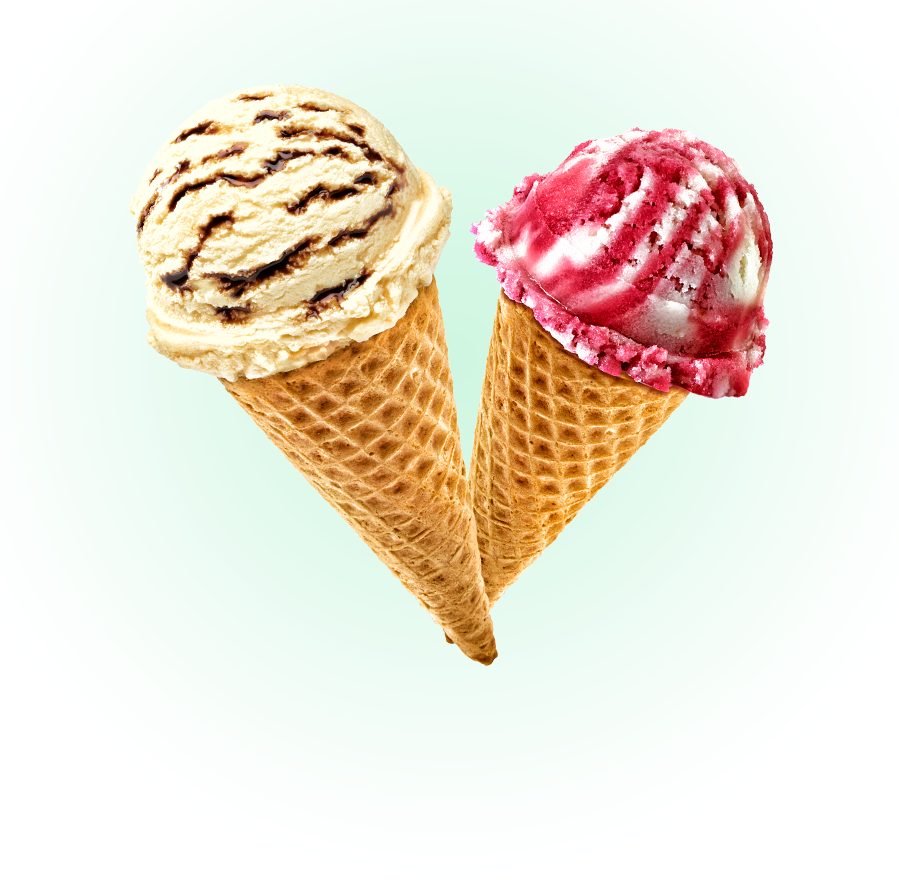
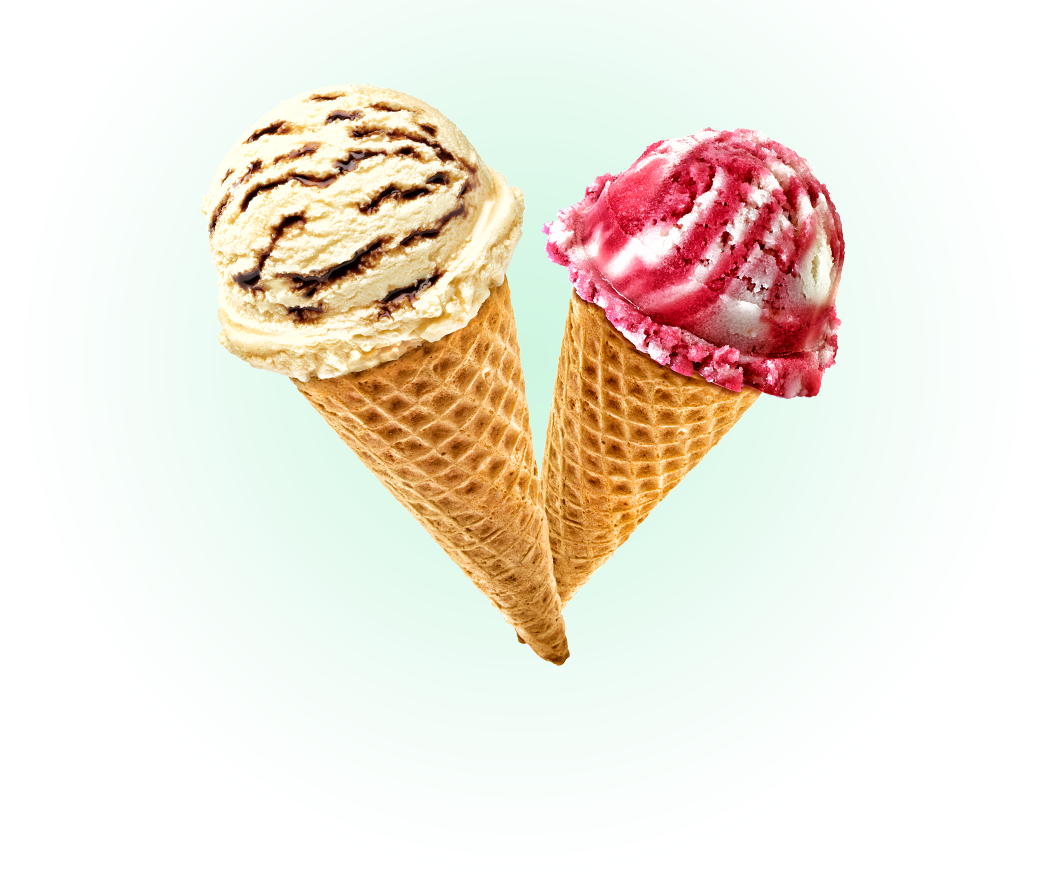
Слайды сделаны

Changed region(s): [[0.1246, 0.0919, 0.8721, 0.7662]]

diff --git a/css/style.css b/css/style.css
@@ -9,9 +9,11 @@ body {
     line-height: 18px;
     color: #ffffff;
     /* Фон */
-    background: #849d8f;
+    background-color: #849d8f;
 }
-
+body > input[type="radio"] {
+  display: none;
+}
 /*---------------------------------- Шапка -----------------------------------*/
 .main-header {
     /* Блочная модель */
@@ -573,9 +575,110 @@ body {
     width: 1146px;
     margin: 0 auto;
 }
+.site-wrapper {
+    background :#849d8f url("../img/slide-1-pic.png") no-repeat top center;
+    transition: background-image 0.5s ease, background-color 0.5s ease;
+}
+.site-wrapper::before,
+.site-wrapper::after {
+    content: "";
+    visibility: hidden;
+}
+.site-wrapper::before {
+    background-image: url("../img/slide-2-pic.png");
+}
+.site-wrapper::after {
+    background-image: url("../img/slide-3-pic.png");
+}
+.slider {
+    position: relative;
+    padding-top: 270px;
+    text-align: center;
+    color: #ffffff;
+}
+.slide {
+    display: none;
+}
+.slide-title {
+    width: 700px;
+    margin: 0 auto;
+    margin-bottom: 30px;
+    font-weight: 700;
+    font-size: 60px;
+      line-height: 60px;
+}
+.slide-button {
+    display: inline-block;
+    padding: 12px 50px;
+    font-weight: 500;
+    font-size: 31px;
+    line-height: 41px;
+    vertical-align: top;
+    color: #ffffff;
+    text-decoration: none;
+    text-shadow: 0 2px 5px rgba(160, 32, 11, 0.76);
+    background: #f26843;
+    background:    -moz-linear-gradient(top, #f26843 0%, #e74a35 100%);
+    background: -webkit-linear-gradient(top, #f26843 0%, #e74a35 100%);
+    background:         linear-gradient(to bottom, #f26843 0%, #e74a35 100%);
+    border-radius: 100px;
+    box-shadow: 0 2px 2px rgba(172, 16, 0, 0.64);
+}
+.slide-button:hover {
+    background:    -moz-linear-gradient(top, #f58669 0%, #ec6f5e 100%);
+    background: -webkit-linear-gradient(top, #f58669 0%, #ec6f5e 100%);
+    background:         linear-gradient(to bottom, #f58669 0%, #ec6f5e 100%);
+    box-shadow: 0 2px 2px rgba(172, 16, 0, 1);
+}
+.slide-button:active {
+    background:    -moz-linear-gradient(top, #d84732 0%, #e1613e 100%);
+    background: -webkit-linear-gradient(top, #d84732 0%, #e1613e 100%);
+    background:         linear-gradient(to bottom, #d84732 0%, #e1613e 100%);
+    box-shadow: inset 0 2px 2px rgba(172, 16, 0, 1);
+}
+.slider-controls label {
+    display: inline-block;
+    width: 17px;
+    height: 17px;
+    margin-right: 8px;
+    vertical-align: top;
+    background-color: transparent;
+    border: 2px solid #ffffff;
+    border-radius: 50%;
+    cursor: pointer;
+}
+#btn-1:checked ~ .site-wrapper #slide1,
+#btn-2:checked ~ .site-wrapper #slide2,
+#btn-3:checked ~ .site-wrapper #slide3 {
+    display: block;
+}
+#btn-1:checked ~ .site-wrapper {
+    background-color: #849d8f;
+    background-image: url("../img/slide-1-pic.png");
+}
+#btn-2:checked ~ .site-wrapper {
+    background-color: #8996a6;
+    background-image: url("../img/slide-2-pic.png");
+}
+#btn-3:checked ~ .site-wrapper {
+    background-color: #9d8b84;
+    background-image: url("../img/slide-3-pic.png");
+}
+#btn-1:checked ~ .site-wrapper label[for="btn-1"],
+#btn-2:checked ~ .site-wrapper label[for="btn-2"],
+#btn-3:checked ~ .site-wrapper label[for="btn-3"] {
+    background-color: #ffffff;
+}
+.slider-controls {
+    position: absolute;
+    bottom: 25px;
+    left: 0;
+    z-index: 20;
+    font-size: 0;
+}
 .special-offer {
     /* Блочная модель */
-    margin-top: 532px;
+    margin-top: 42px;
     margin-bottom: 35px;
     /* Оформление текста */
     font-size: 0;
@@ -621,26 +724,28 @@ body {
     text-decoration: none;
     color: #ffffff;
     /* Фон */
-    background-image: -moz-linear-gradient(to bottom, #f26843, #e74a35);
-    background-image: -webkit-linear-gradient(to bottom, #f26843, #e74a35);
-    background-image: linear-gradient(to bottom, #f26843, #e74a35);
+    text-shadow: 0 2px 5px rgba(160, 32, 11, 0.76);
+    background: #f26843;
+    background:    -moz-linear-gradient(top, #f26843 0%, #e74a35 100%);
+    background: -webkit-linear-gradient(top, #f26843 0%, #e74a35 100%);
+    background:         linear-gradient(to bottom, #f26843 0%, #e74a35 100%);
     /* Декоративные элементы */
     border-radius: 32px;
     box-shadow: 0 2px 2px 0 rgba(172,16,0,0.64);
 }
 .button:hover {
     /* Фон */
-    background-image: -moz-linear-gradient(to bottom, #f58669, #ec6f5e);
-    background-image: -webkit-linear-gradient(to bottom, #f58669, #ec6f5e);
-    background-image: linear-gradient(to bottom, #f58669, #ec6f5e5);
+    background:    -moz-linear-gradient(top, #f58669 0%, #ec6f5e 100%);
+    background: -webkit-linear-gradient(top, #f58669 0%, #ec6f5e 100%);
+    background:         linear-gradient(to bottom, #f58669 0%, #ec6f5e 100%);
     /* Декоративные элементы */
     box-shadow: 0 2px 2px 0 #ac1000;
 }
 .button:active {
     /* Фон */
-    background-image: -moz-linear-gradient(to bottom, #d84732, #e1613e);
-    background-image: -webkit-linear-gradient(to bottom, #d84732, #e1613e);
-    background-image: linear-gradient(to bottom, #d84732, #e1613e);
+    background:    -moz-linear-gradient(top, #d84732 0%, #e1613e 100%);
+    background: -webkit-linear-gradient(top, #d84732 0%, #e1613e 100%);
+    background:         linear-gradient(to bottom, #d84732 0%, #e1613e 100%);
     /* Декоративные элементы */
     box-shadow: inset 0 2px 2px 0 #942718;
 }
@@ -944,6 +1049,8 @@ body {
     color: #323232;
     /* Фон */
     background: #fffefe;
+    /* Декоративные элементы */
+    border-radius: 15px;
 }
 .contacts-info p {
     /* Оформление текста */

diff --git a/index.html b/index.html
@@ -8,6 +8,9 @@
         <link href="css/style.css" rel="stylesheet">
     </head>
     <body>
+        <input type="radio" id="btn-1" name="toggle" checked>
+        <input type="radio" id="btn-2" name="toggle">
+        <input type="radio" id="btn-3" name="toggle">
         <div class="site-wrapper">
             <header class="main-header">
                 <div class="container">
@@ -109,13 +112,28 @@
                     </div>
                 </div>
             </header>
-            <main class="main-container">
-                <div class="slide">
-                    <div class="container">
-                        <!-- Масонская тайна? -->
-                        <a class="button" href="#">Давайте оба!</a>
+            <div class="container">
+                <div class="slider">
+                    <div class="slide" id="slide1">
+                        <div class="slide-title">Крем-брюле и пломбир с малиновым джемом</div>
+                        <a class="slide-button" href="#">Давайте оба!</a>
+                    </div>
+                    <div class="slide" id="slide2">
+                        <div class="slide-title">Шоколадный пломбир и лимонный сорбет</div>
+                        <a class="slide-button" href="#">Давайте оба!</a>
+                    </div>
+                    <div class="slide" id="slide3">
+                        <div class="slide-title">Пломбир с помадкой и клубничный щербет</div>
+                        <a class="slide-button" href="#">Давайте оба!</a>
+                    </div>
+                    <div class="slider-controls">
+                        <label for="btn-1"></label>
+                        <label for="btn-2"></label>
+                        <label for="btn-3"></label>
                     </div>
                 </div>
+            </div>
+            <main class="main-container">
                 <div class="special-offer">
                     <div class="container">
                         <div class="left-special-offer">
